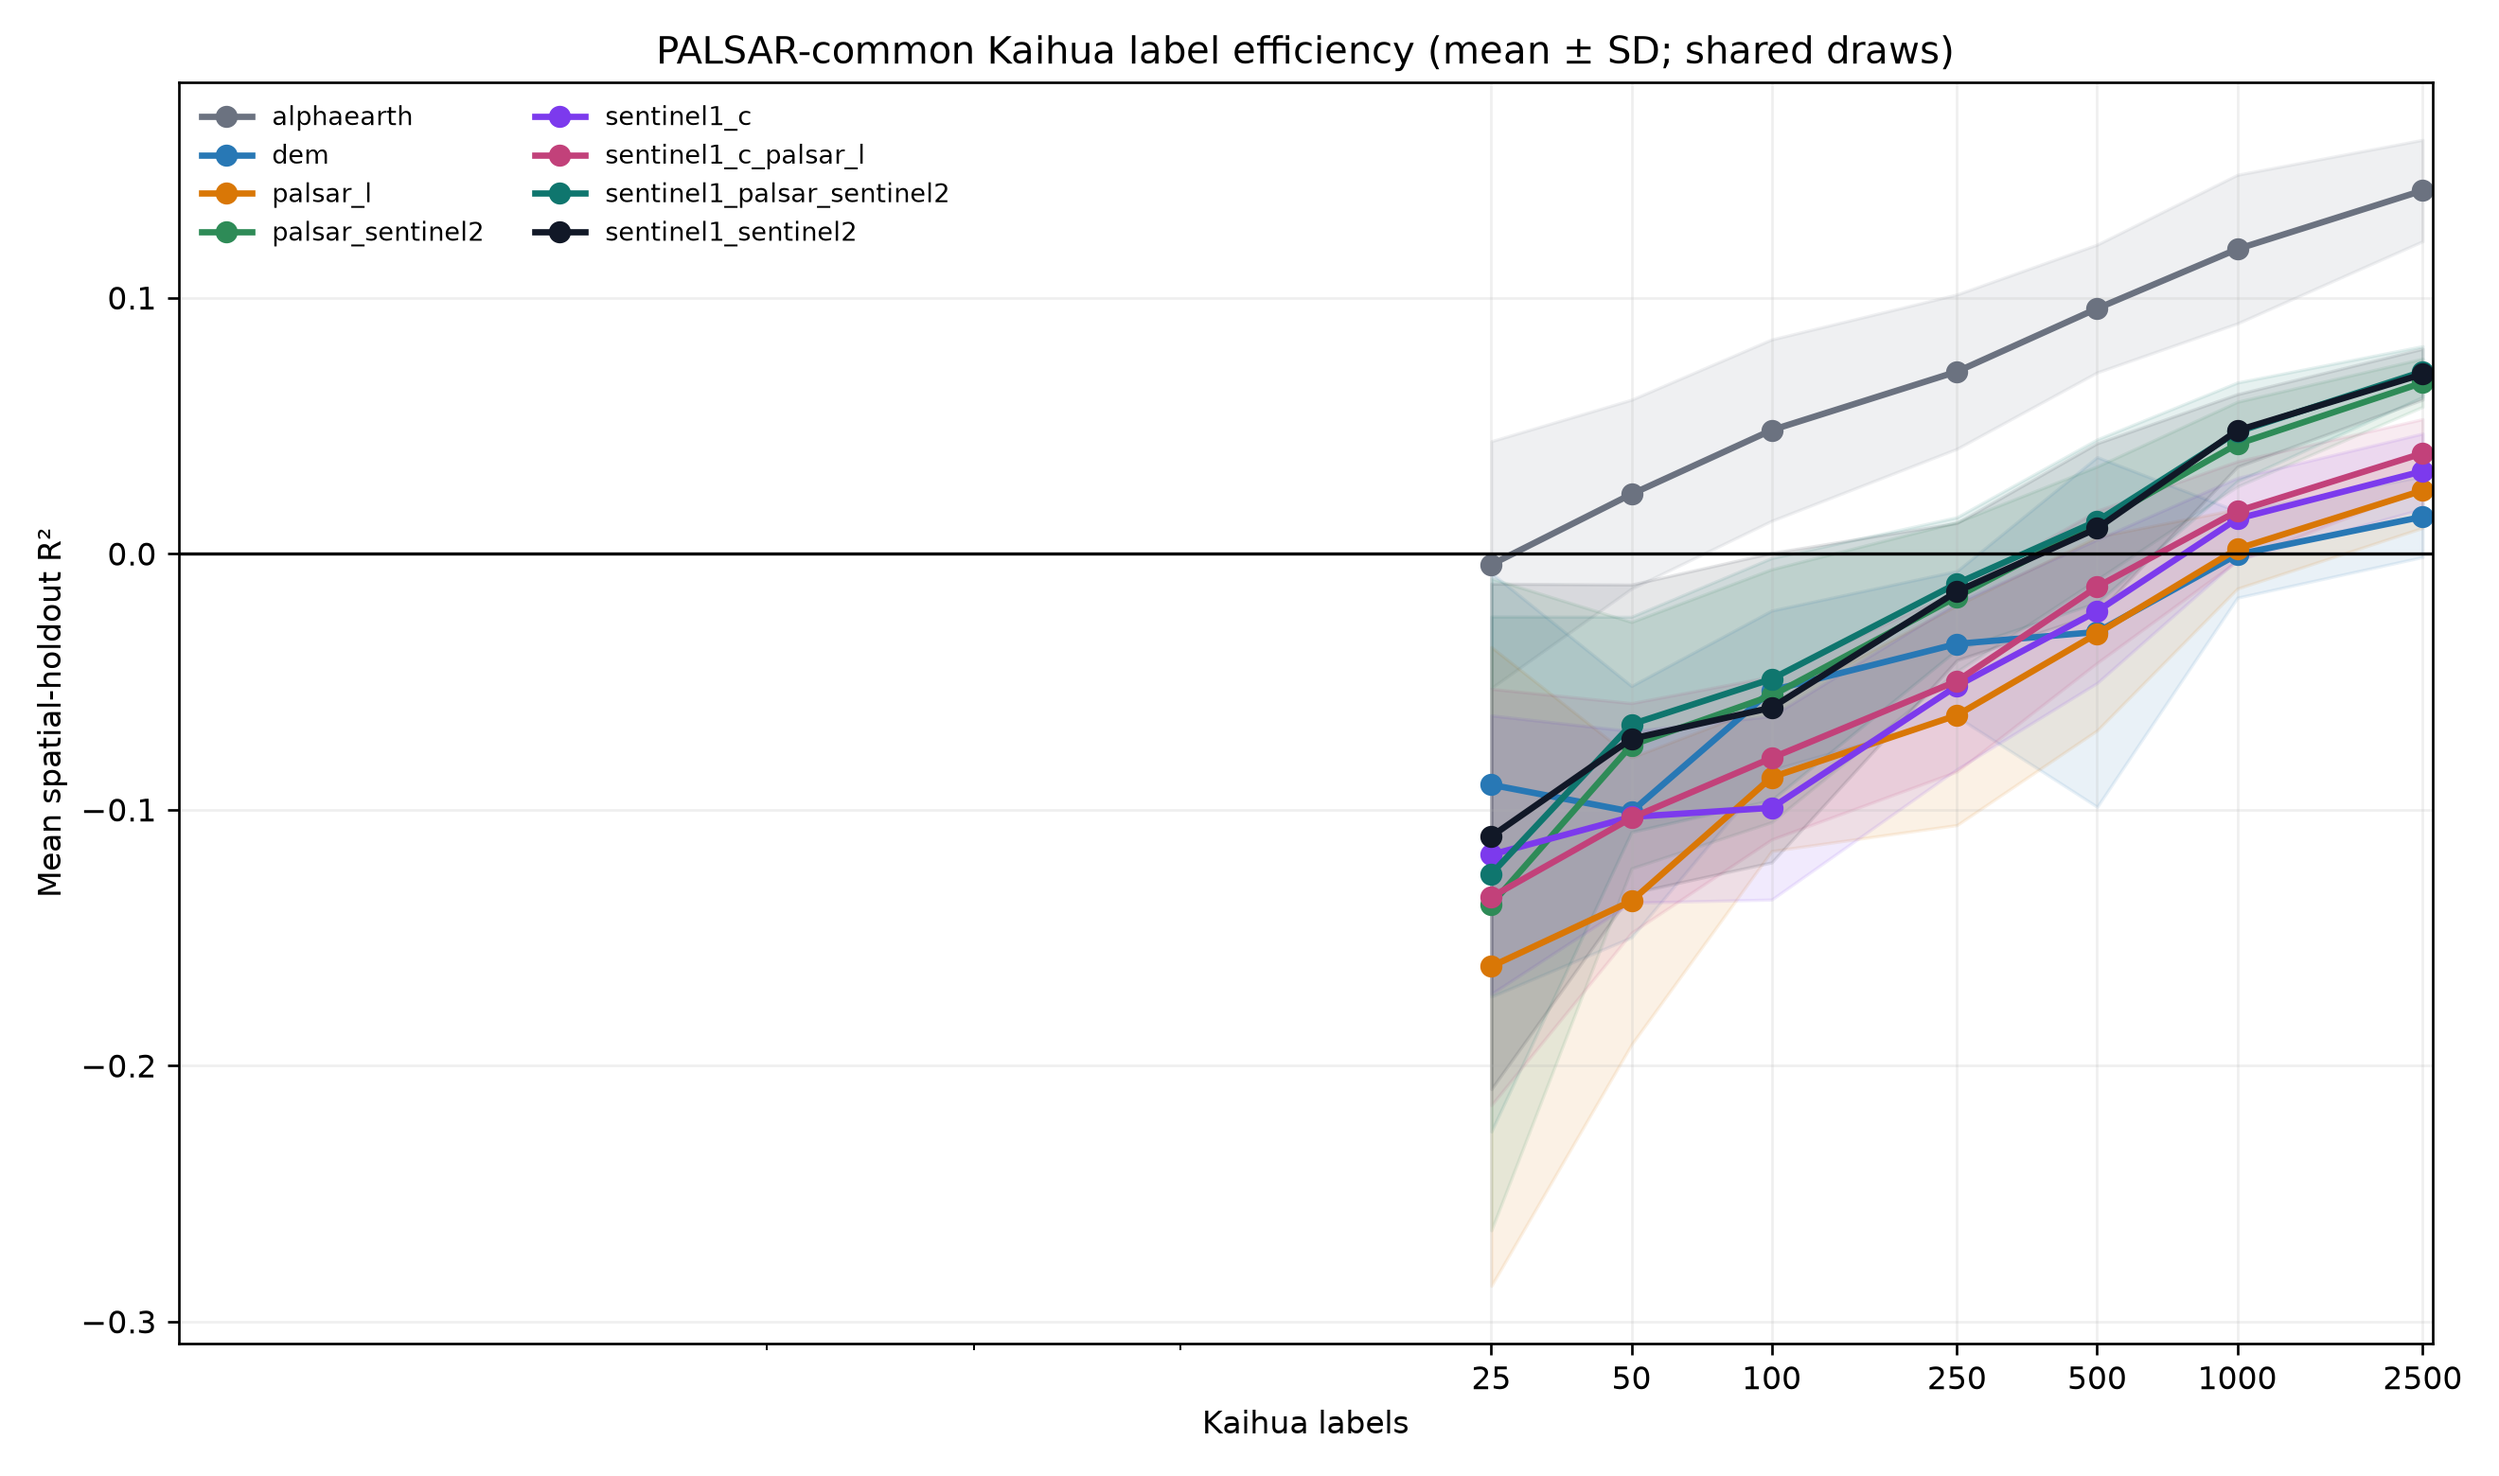
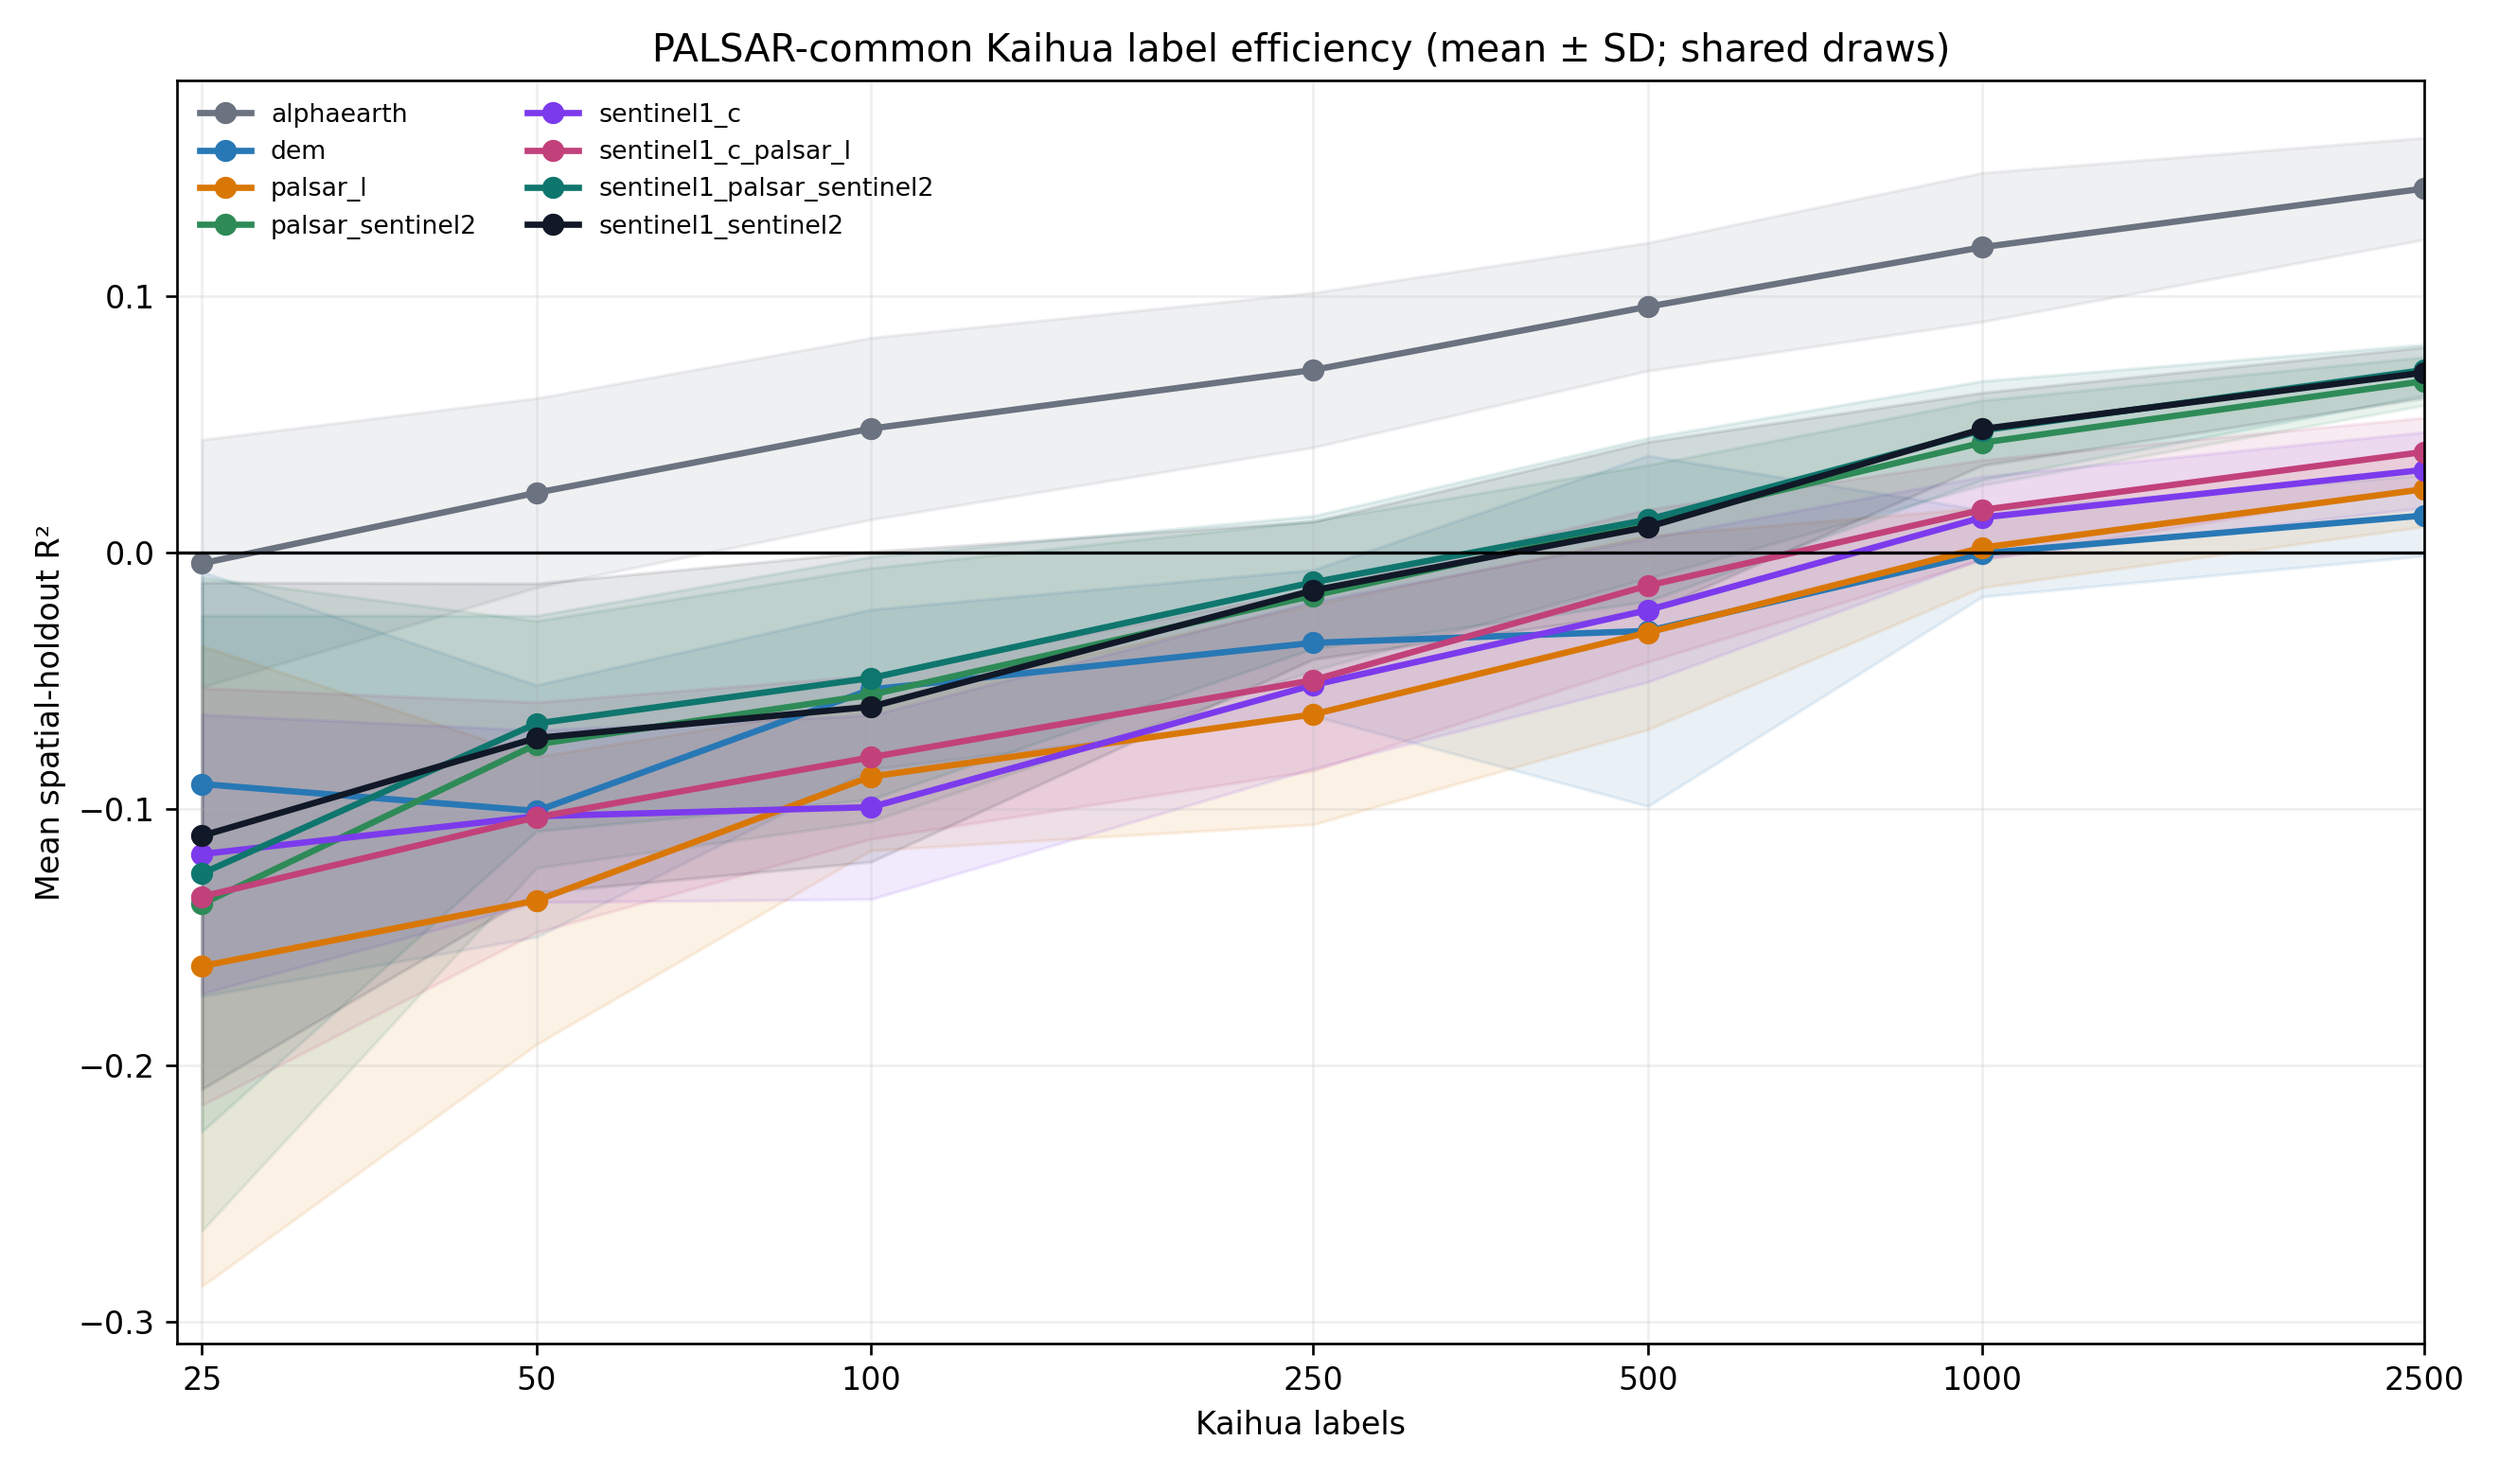
Fix benchmark figure layout

diff --git a/scripts/04_diagnostics/build_final_reproducibility_manifest_v2.py b/scripts/04_diagnostics/build_final_reproducibility_manifest_v2.py
@@ -26,6 +26,7 @@ def main() -> None:
     paths += [ROOT / "scripts/utilities/radar_benchmark.py",
               ROOT / "scripts/utilities/radar_extractors.py",
               ROOT / "scripts/03_modeling/run_radar_representation_benchmark.py",
+              ROOT / "scripts/04_diagnostics/build_summary_outputs.py",
               ROOT / "scripts/04_diagnostics/analyze_radar_biomass_sensitivity.py",
               ROOT / "scripts/04_diagnostics/analyze_radar_domain_shift.py"]
     optional = [ROOT / "outputs/manifests/palsar_availability_freeze.json",
@@ -54,6 +55,7 @@ def main() -> None:
         ROOT / "outputs/tables/diagnostics/radar_domain_shift.csv",
         ROOT / "outputs/tables/diagnostics/radar_paired_fold_contrasts.csv",
         ROOT / "outputs/tables/audits/palsar_acquisition_timing.csv",
+        ROOT / "figures/source_representation_comparison.png",
         ROOT / "figures/radar_representation_source_comparison.png",
         ROOT / "figures/radar_zero_shot_comparison.png",
         ROOT / "figures/radar_fewshot_label_efficiency.png",

diff --git a/scripts/04_diagnostics/build_summary_outputs.py b/scripts/04_diagnostics/build_summary_outputs.py
@@ -142,7 +142,11 @@ def source_comparison(root: Path) -> None:
         bars = ax.bar(labels, vals, yerr=errs, capsize=5, color=colors, width=.62)
         ax.set_ylabel(ylabel); ax.grid(axis="y", alpha=.2)
         ax.tick_params(axis="x", rotation=10)
-        for b, v in zip(bars, vals): ax.text(b.get_x()+b.get_width()/2, v, f"{v:.3f}" if metric=="R2" else f"{v:.1f}", ha="center", va="bottom")
+        label_pad = .008 if metric == "R2" else .6
+        for b, v, err in zip(bars, vals, errs):
+            ax.text(b.get_x() + b.get_width()/2, v + err + label_pad,
+                    f"{v:.3f}" if metric == "R2" else f"{v:.1f}",
+                    ha="center", va="bottom")
     fig.suptitle("USA source-domain spatial CV (nested)", fontsize=14, weight="bold")
     fig.tight_layout(); fig.savefig(root / "figures/source_representation_comparison.png", dpi=260); plt.close(fig)
 

diff --git a/scripts/04_diagnostics/build_palsar_benchmark_outputs.py b/scripts/04_diagnostics/build_palsar_benchmark_outputs.py
@@ -86,6 +86,7 @@ def fewshot_figure() -> None:
                         color=color, alpha=.10)
     ax.axhline(0, color="black", lw=1); ax.set_xscale("symlog", linthresh=25)
     ax.set_xticks([25, 50, 100, 250, 500, 1000, 2500], ["25", "50", "100", "250", "500", "1000", "2500"])
+    ax.set_xlim(24.5, 2500)  # Keep 25 leftmost without clipping its markers.
     ax.set(xlabel="Kaihua labels", ylabel="Mean spatial-holdout R²",
            title="PALSAR-common Kaihua label efficiency (mean ± SD; shared draws)")
     ax.legend(ncol=2, fontsize=8, frameon=False); ax.grid(alpha=.2)
